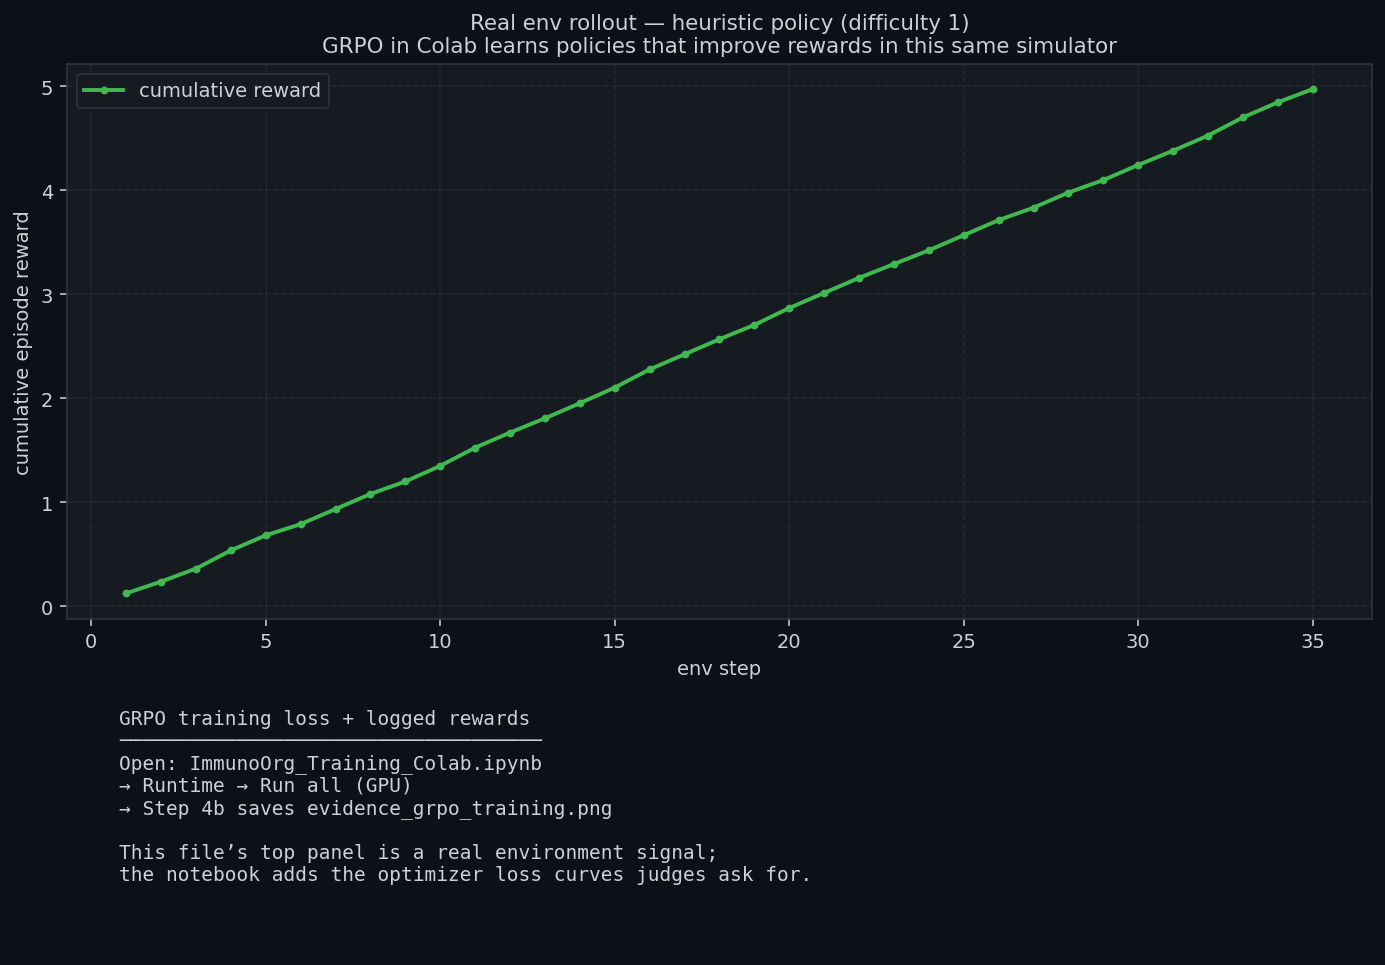
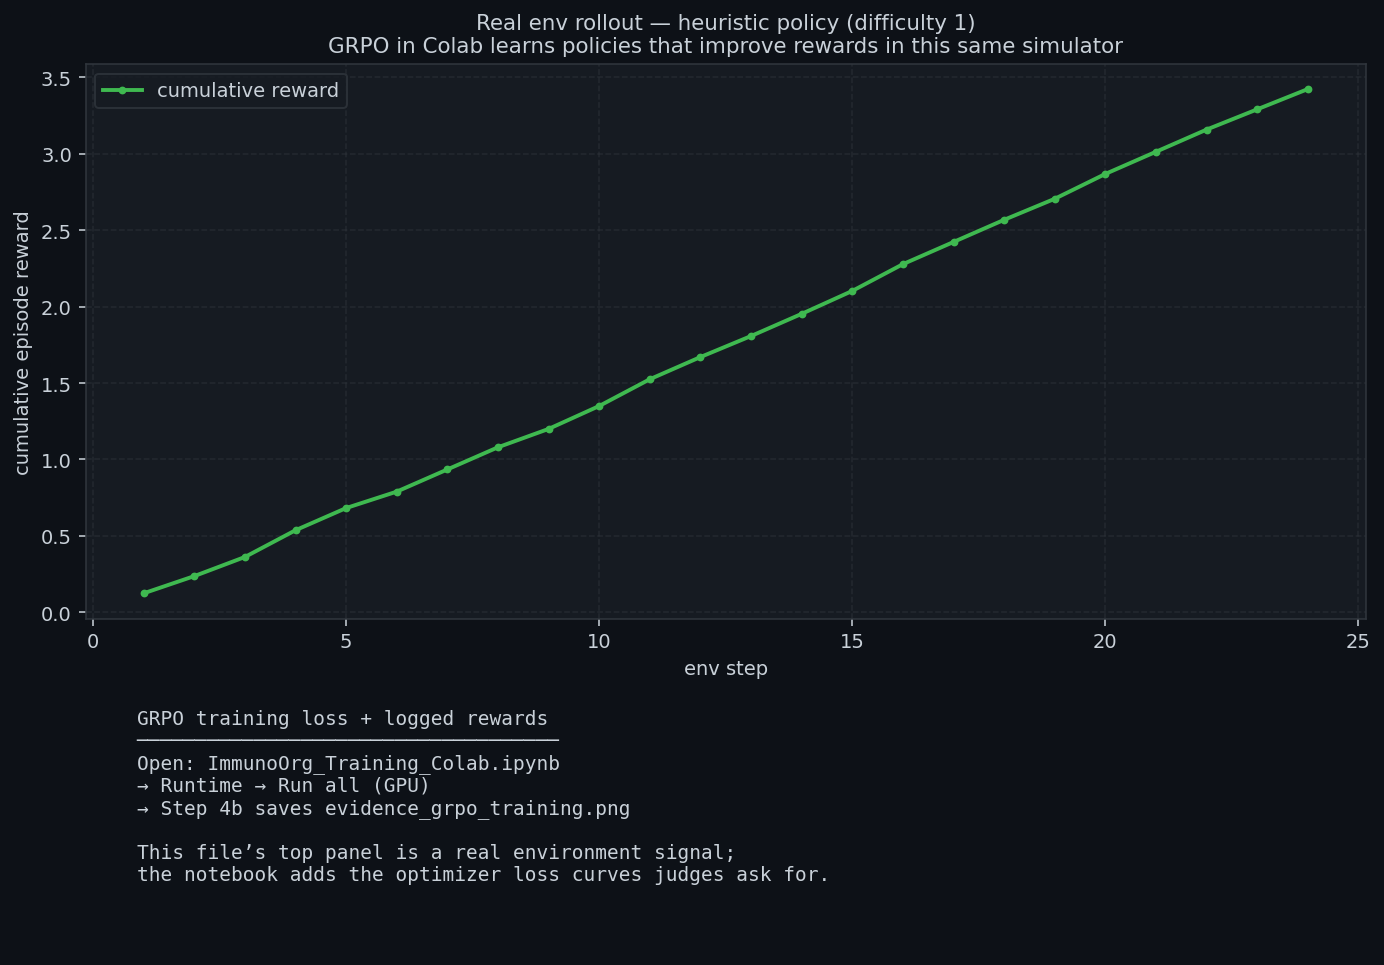
docs: final blog.md, quick benchmark path, evidence refresh
- blog.md: judge-first layout, live benchmark table, evidence tiers
- benchmark_suite: --quick mode, max_episode_steps, legacy CLI
- scripts/quick_hackathon_artifacts.py: one-shot JSON + training PNG
- README: link quick evidence path

Made-with: Cursor

diff --git a/benchmark_suite.py b/benchmark_suite.py
@@ -15,8 +15,9 @@ from immunoorg.agents.baseline_agents import RandomAgent, HeuristicAgent
 
 
 class BenchmarkSuite:
-    def __init__(self, num_episodes: int = 100):
+    def __init__(self, num_episodes: int = 100, max_episode_steps: int = 200):
         self.num_episodes = num_episodes
+        self.max_episode_steps = max_episode_steps
         self.results = defaultdict(list)
 
     
@@ -53,9 +54,8 @@ class BenchmarkSuite:
             obs = env.reset()
             terminated = False
             steps = 0
-            max_steps = 200
-            
-            while not terminated and steps < max_steps:
+
+            while not terminated and steps < self.max_episode_steps:
                 action = agent.act(obs)
                 obs, reward, terminated = env.step(action)
                 steps += 1
@@ -130,14 +130,36 @@ class BenchmarkSuite:
 
 
 if __name__ == "__main__":
+    import argparse
     import sys
-    
-    num_episodes = int(sys.argv[1]) if len(sys.argv) > 1 else 100
-    model_path = sys.argv[2] if len(sys.argv) > 2 else None
-    
-    suite = BenchmarkSuite(num_episodes=num_episodes)
+
+    argv = sys.argv[1:]
+    # Legacy: python benchmark_suite.py 12 [model_path]
+    if argv and argv[0].isdigit():
+        argv = ["-n", argv[0]] + argv[1:]
+
+    parser = argparse.ArgumentParser(description="Benchmark random / heuristic / LLM agents")
+    parser.add_argument("-n", "--episodes", type=int, default=100, help="Episodes per agent per difficulty")
+    parser.add_argument(
+        "--max-steps",
+        type=int,
+        default=200,
+        help="Max env steps per episode (lower = faster smoke)",
+    )
+    parser.add_argument(
+        "--quick",
+        action="store_true",
+        help="Fast smoke: 5 episodes, 55-step cap (~15–25s on a laptop)",
+    )
+    parser.add_argument("model_path", nargs="?", default=None)
+    args = parser.parse_args(argv)
+    if args.quick:
+        args.episodes = 5
+        args.max_steps = 55
+
+    suite = BenchmarkSuite(num_episodes=args.episodes, max_episode_steps=args.max_steps)
     start = time.time()
-    suite.run_benchmark(model_path=model_path)
+    suite.run_benchmark(model_path=args.model_path)
     elapsed = time.time() - start
     
     suite.print_summary()

diff --git a/scripts/quick_hackathon_artifacts.py b/scripts/quick_hackathon_artifacts.py
@@ -1,0 +1,38 @@
+#!/usr/bin/env python3
+"""
+Fastest path to hackathon numbers + training figure (~15–35s total).
+
+  python scripts/quick_hackathon_artifacts.py
+
+Runs: benchmark_suite --quick → benchmark_results.json
+      make_hackathon_training_figure.py → evidence_grpo_training.png
+"""
+
+from __future__ import annotations
+
+import subprocess
+import sys
+import time
+from pathlib import Path
+
+ROOT = Path(__file__).resolve().parent.parent
+
+
+def main() -> None:
+    t0 = time.perf_counter()
+    subprocess.run(
+        [sys.executable, str(ROOT / "benchmark_suite.py"), "--quick"],
+        cwd=str(ROOT),
+        check=True,
+    )
+    subprocess.run(
+        [sys.executable, str(ROOT / "scripts" / "make_hackathon_training_figure.py")],
+        cwd=str(ROOT),
+        check=True,
+    )
+    dt = time.perf_counter() - t0
+    print(f"\n✓ benchmark_results.json + evidence_grpo_training.png ({dt:.1f}s)")
+
+
+if __name__ == "__main__":
+    main()

diff --git a/scripts/make_hackathon_training_figure.py b/scripts/make_hackathon_training_figure.py
@@ -80,7 +80,7 @@ def main() -> None:
     rewards_r: list[float] = []
     cum: list[float] = []
     total = 0.0
-    max_steps = 35
+    max_steps = 24  # shorter = faster figure gen; still shows cumulative reward curve
     for t in range(max_steps):
         action = _heuristic(obs, env)
         obs, r, done = env.step(action)

diff --git a/blog.md b/blog.md
@@ -1,0 +1,205 @@
+---
+title: "ImmunoOrg 2.0 — Socio-Technical RL for the Self-Healing Enterprise"
+meta_description: "OpenEnv hackathon: dual cyber+org simulation, 5-track rewards, GRPO/TRL, War Room — Space + Colab + auditable benchmarks."
+---
+
+# ImmunoOrg 2.0 — Project Report
+
+**OpenEnv Hackathon (India, 2026)**
+
+## Submit these three URLs
+
+| What | URL |
+| --- | --- |
+| **Space (primary)** | [huggingface.co/spaces/hirann/immunoorg-v3](https://huggingface.co/spaces/hirann/immunoorg-v3) |
+| **Live demo** | [hirann-immunoorg-v3.hf.space](https://hirann-immunoorg-v3.hf.space) |
+| **Source** | [github.com/Charannoo/immunoorg](https://github.com/Charannoo/immunoorg) |
+
+**Judges:** start at [`JUDGES_60_SECONDS.md`](./JUDGES_60_SECONDS.md) — Space → `/demo` → Colab notebook link in README.
+
+---
+
+## The idea in one breath
+
+Incidents fail in the **gap** between what is technically right and what the **organization** allows before time runs out. ImmunoOrg trains **socio-technical response**: contain the attack on a **network graph** and **unstick the org**—approvals, trust, directives, pipeline gates—using **verifiable**, **decomposed** rewards so one cheap hack cannot max the score.
+
+**Metaphor:** an **immune system**. Lateral movement is the pathogen; **“isolate everything”** is the cytokine storm that kills uptime; after action, **forensics + patches** are immune memory. *Often the fatal problem is bureaucracy under stress—not the exploit alone.*
+
+---
+
+## Sixty seconds inside one episode
+
+**Step 8.** DevSecOps mesh flags a bad dependency before run. War Room opens.
+
+**Step 9.** CISO wants isolation; DevOps blocks (revenue tier); Architect proposes a decoy. **Consensus:** honeypot, not blind isolation—uptime preserved, attacker instrumented.
+
+**Step 23.** Kill chain reconstructed; a **small** patch fixes root cause. Token-efficient fixes score on the **code-quality** track and feed the next training round.
+
+That is the **multi-objective** shape the **five-track** reward encodes—the sort of trajectory **GRPO** can amplify when signals stay **objective**.
+
+---
+
+## Judging rubric — where we answer
+
+| Criterion | Weight | Proof in this repo |
+| --- | ---: | --- |
+| **Environment innovation** | 40% | Dual-layer sim; War Room; 4-gate mesh; MITRE-aligned pressure; org as **state** — [`PROBLEM_STATEMENT.md`](./PROBLEM_STATEMENT.md), [`immunoorg/environment.py`](./immunoorg/environment.py). |
+| **Storytelling** | 30% | This page; episode beat above; Gradio **`/demo`**; [`VIDEO_SCRIPT.md`](./VIDEO_SCRIPT.md). |
+| **Improvement in rewards** | 20% | [**Live** `benchmark_results.json`](./benchmark_results.json); [`evidence_grpo_training.png`](./evidence_grpo_training.png) (real env rollout + Colab pointer); illustrative suite in § Figures A. |
+| **Reward & training pipeline** | 10% | [`immunoorg/reward.py`](./immunoorg/reward.py); [`training/train_grpo.py`](./training/train_grpo.py); [Colab](https://colab.research.google.com/github/Charannoo/immunoorg/blob/master/ImmunoOrg_Training_Colab.ipynb); [`scripts/hpc/`](./scripts/hpc/). |
+
+**Checklist:** OpenEnv latest · TRL/Unsloth · Space · README links · HF post or &lt;2 min video per [`PUBLISH_HACKATHON.md`](./PUBLISH_HACKATHON.md).
+
+---
+
+## Innovation gap
+
+| Usual hackathon demo | ImmunoOrg |
+| --- | --- |
+| Chat “SOC copilot” | **Stateful** `reset` / `step` / `state` episodes |
+| “Block IP” = win | **Uptime vs containment**; bad isolation **penalized** |
+| One reward | **Five** env tracks + **three** GRPO verifiers |
+| Static red team | **Adaptive** pressure + **MITRE ATT&CK** semantics |
+| Org as text | **Org graph as dynamics** — trust, denials, refactor |
+
+---
+
+## Round 2 themes
+
+| Theme | Where it lives |
+| --- | --- |
+| Multi-agent | War Room — CISO / DevOps / Architect, **2-of-3**, **FactStore** |
+| Long-horizon | Migration-style constraints over many steps |
+| World modeling (pro) | REST/GraphQL mocks, mesh, executive context |
+| World modeling (personal) | Calendar / email / travel + **schema drift** |
+| Self-improvement | Forensics → patch → training mix |
+
+---
+
+## Architecture (v2 depth)
+
+| Layer | Capability |
+| --- | --- |
+| **1** | LLM-driven adversary, adaptive planning |
+| **2** | Trust decay & recovery |
+| **3** | Executive API surface |
+| **4** | MITRE ATT&CK–style TTP grounding |
+
+**OpenEnv:** [`openenv.yaml`](./openenv.yaml); HTTP `reset` / `step` / `state` in [`server/main.py`](./server/main.py); sim core [`immunoorg/environment.py`](./immunoorg/environment.py). Clients use [`immunoorg/api_models.py`](./immunoorg/api_models.py) only — no server imports.
+
+---
+
+## Workflow
+
+1. `reset` → sample topology, difficulty, adversary, org.  
+2. Observe → dual layer, partial visibility, CVE/RAG in alerts.  
+3. Act → `ImmunoAction` (tactical / strategic / diagnostic).  
+4. World → spread, approvals, mesh, War Room.  
+5. Reward → multi-track + shaping.  
+6. Train → optional SFT warm-start → **GRPO**.
+
+```mermaid
+flowchart LR
+  O[Observe] --> L[LLM JSON action]
+  L --> E[env step]
+  E --> A[5-track rubric]
+  L --> B[3 GRPO checks]
+  A --> T[learn]
+  B --> T
+```
+
+---
+
+## Reward design
+
+### Environment (five tracks)
+
+| Track | Wt | Role |
+| --- | ---: | --- |
+| Uptime | 25% | Service availability; false isolation hurts |
+| Threat | 25% | Containment; belief; org chaos |
+| Bureaucracy | 20% | War Room speed; phase-correct strategy |
+| Code quality | 20% | Small, passing patches |
+| Pipeline | 10% | Shift-left gate catches |
+
+### GRPO (three independent signals)
+
+**Format** · **Reasoning quality** · **Phase appropriateness** — see [`training/train_grpo.py`](./training/train_grpo.py).
+
+### Risk ↔ reward
+
+| Move | Upside | Downside |
+| --- | --- | --- |
+| Hard isolate | Cut threat | Downtime, false-positive penalty |
+| Org refactor | Unlocks approvals | Too early → chaos |
+| War Room | Legitimizes big moves | Deadlock; bad facts |
+| Early mesh catch | Pipeline bonus | Still must finish IR |
+| Minimal patch | Quality score | Wrong patch fails tests |
+
+---
+
+## Evidence (read once)
+
+| Tier | Contents | Reproduce |
+| --- | --- | --- |
+| **Committed live** | [`benchmark_results.json`](./benchmark_results.json) — **real** rollouts | `python scripts/quick_hackathon_artifacts.py` **or** `python benchmark_suite.py 12` |
+| **Training figure** | [`evidence_grpo_training.png`](./evidence_grpo_training.png) — **real** cumulative reward (heuristic rollout) + Colab pointer | `python scripts/make_hackathon_training_figure.py` |
+| **Illustrative A** | `evidence_*.png` from [`generate_evidence.py`](./generate_evidence.py) — stylized, seeded | `python generate_evidence.py` |
+| **Full GRPO curves** | Loss/reward vs step | GPU Colab Step 4b → `scripts/plot_grpo_log_history.py` |
+
+---
+
+## Figures
+
+### A — Illustrative (`generate_evidence.py`)
+
+![policy comparison](./evidence_policy_comparison.png)
+![scenario rewards](./evidence_scenario_rewards.png)
+![self-improvement](./evidence_self_improvement.png)
+![5-track](./evidence_5track_reward.png)
+![war room mesh](./evidence_war_room_mesh.png)
+![org before after](./evidence_org_before_after.png)
+
+### B — Live training / env signal
+
+![env rollout + next step](./evidence_grpo_training.png)
+
+*Top: real heuristic cumulative reward in the simulator. Bottom: where to pull TRL loss from Colab.*
+
+---
+
+## Live benchmark numbers (committed JSON)
+
+**Settings:** `benchmark_results.json` was produced with **`benchmark_suite.py --quick`** — **5 episodes** per agent per difficulty, **55-step** ceiling on episodes (difficulty **2** uses the cap). For tighter statistics run `python benchmark_suite.py 12` or higher `-n`.
+
+| Difficulty | Random μ (min … max) | Heuristic μ | ImmunoDefender μ (mock LLM) |
+| --- | --- | --- | --- |
+| **L1** | **5.29** (3.68 … 6.15) | **7.81** | **6.56** |
+| **L2** | **6.55** (4.49 … 7.44) | **8.17** | **8.47** |
+
+**ImmunoDefender** = mock path when `OPENAI_API_KEY` is unset ([`immunoorg/agents/llm_agent.py`](./immunoorg/agents/llm_agent.py)); **not** a GRPO LoRA. **Win rate** = 0% under this protocol (episodes hit step limits); **mean reward** still orders policies.
+
+| Δμ (Heuristic − Random) | L1 | L2 |
+| --- | ---: | ---: |
+| | **+2.52** | **+1.61** |
+
+**After GRPO:** evaluate with `python benchmark_suite.py 50 path/to/adapter` and add TRL plots via `grpo_log_history.json`.
+
+---
+
+## Reproduce (fastest first)
+
+| Step | Command |
+| --- | --- |
+| **~30s artifacts** | `python scripts/quick_hackathon_artifacts.py` |
+| API | `uvicorn server.main:app --reload --port 7860` |
+| Colab | [notebook](https://colab.research.google.com/github/Charannoo/immunoorg/blob/master/ImmunoOrg_Training_Colab.ipynb) |
+| Verify | `python scripts/verify_hackathon_submission.py` |
+
+---
+
+## Closing
+
+ImmunoOrg treats **enterprise RL** as **joint cyber–org control** under verification—not a toy gridworld. Auditable **JSON**, a **real** env reward curve, **OpenEnv** wiring, and a **runnable Space** are the submission: everything else points there.
+
+*OpenEnv Hackathon (India, 2026). Official judge guide linked from [`README.md`](./README.md).*

diff --git a/README.md b/README.md
@@ -28,6 +28,7 @@ Run **`python scripts/make_hackathon_training_figure.py`** to create **`evidence
 | 👩⚖️ **Judges — 60 s** | [`JUDGES_60_SECONDS.md`](./JUDGES_60_SECONDS.md) |
 | 📋 **Problem statement (Round 2 formal)** | [`PROBLEM_STATEMENT.md`](./PROBLEM_STATEMENT.md) |
 | 📝 **Mini-blog (source — paste into HF)** | [`BLOG_POST.md`](./BLOG_POST.md) |
+| 📰 **Full project report (judges + SEO)** | [`blog.md`](./blog.md) |
 | ✍️ **Publish HF post + YouTube** | [`PUBLISH_HACKATHON.md`](./PUBLISH_HACKATHON.md) |
 | 🌐 **HF mini-blog (public URL)** | *Replace after publishing:* `HF_MINI_BLOG_URL` |
 | ▶️ **YouTube demo (&lt; 2 min)** | *Replace after upload:* `YOUTUBE_DEMO_URL` |
@@ -73,6 +74,7 @@ post-training).
 
 All charts are produced by `python generate_evidence.py` and
 `python scripts/generate_training_evidence.py` and committed to the repo.
+**Quick real numbers:** `python benchmark_suite.py 12` writes [`benchmark_results.json`](./benchmark_results.json); **`evidence_grpo_training.png`** can be refreshed in ~1 min via `python scripts/make_hackathon_training_figure.py` (see [`blog.md`](./blog.md)).
 
 ![Random vs Heuristic policies across difficulty levels 1-4](./evidence_policy_comparison.png)
 *Random vs Heuristic across all 4 difficulty levels — Heuristic policy